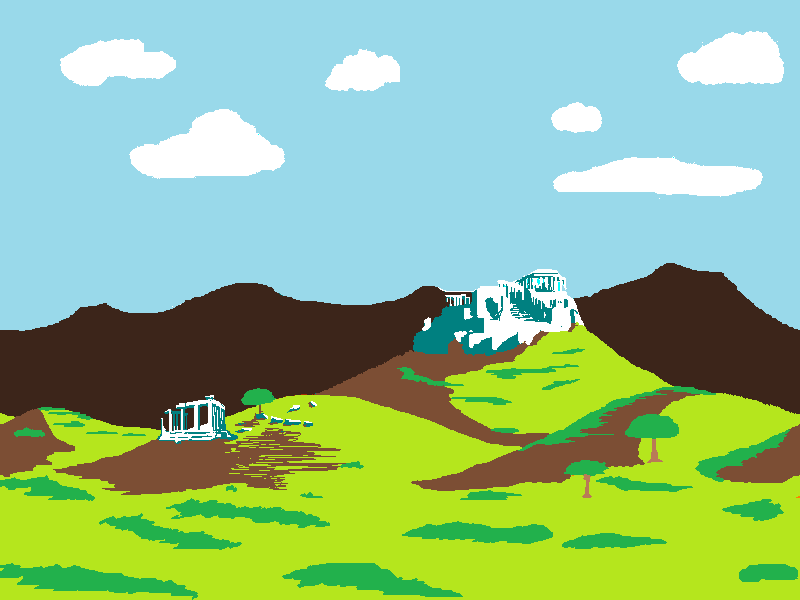
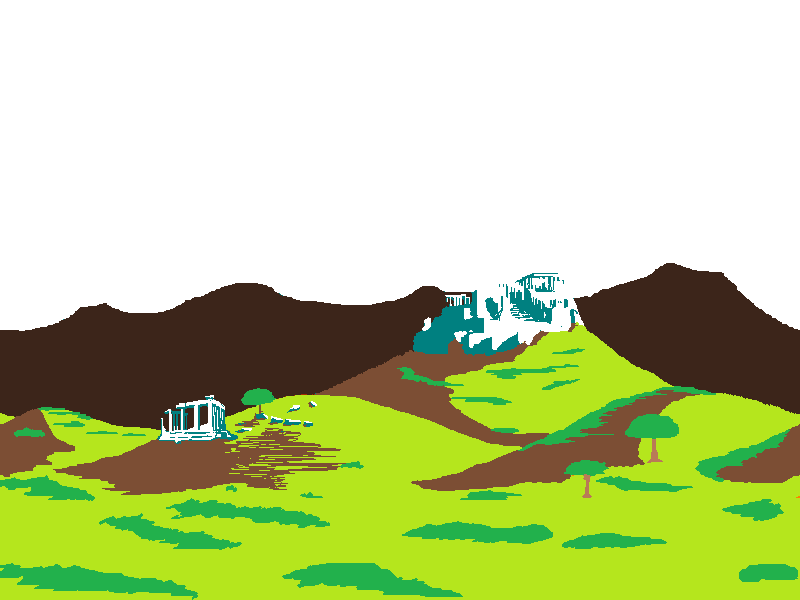
Added scrolling clouds to background of game using CSS3 animations

diff --git a/Infinite Sidescroller/Content/global.css b/Infinite Sidescroller/Content/global.css
@@ -217,6 +217,7 @@ nav ul li:hover #b {
     background-size: cover;
 }
 
+/*for bigger screens*/
 @media screen and (min-height:1200px) and (max-height:1400px) {
     .game_canvas {
         max-height: 1400px;
@@ -225,7 +226,19 @@ nav ul li:hover #b {
 }
 
 canvas {
-    background-color: skyblue;
+    background: 
+        url("../Content/Images/clouds.gif"),
+        rgb(153, 217, 234);
+    -webkit-animation: slide 120s linear infinite;
+}
+
+@-webkit-keyframes slide {
+    from{
+        background-position:0px;
+    }
+    to{
+        background-position:1024px;
+    }
 }
 
 #canvas_container {
